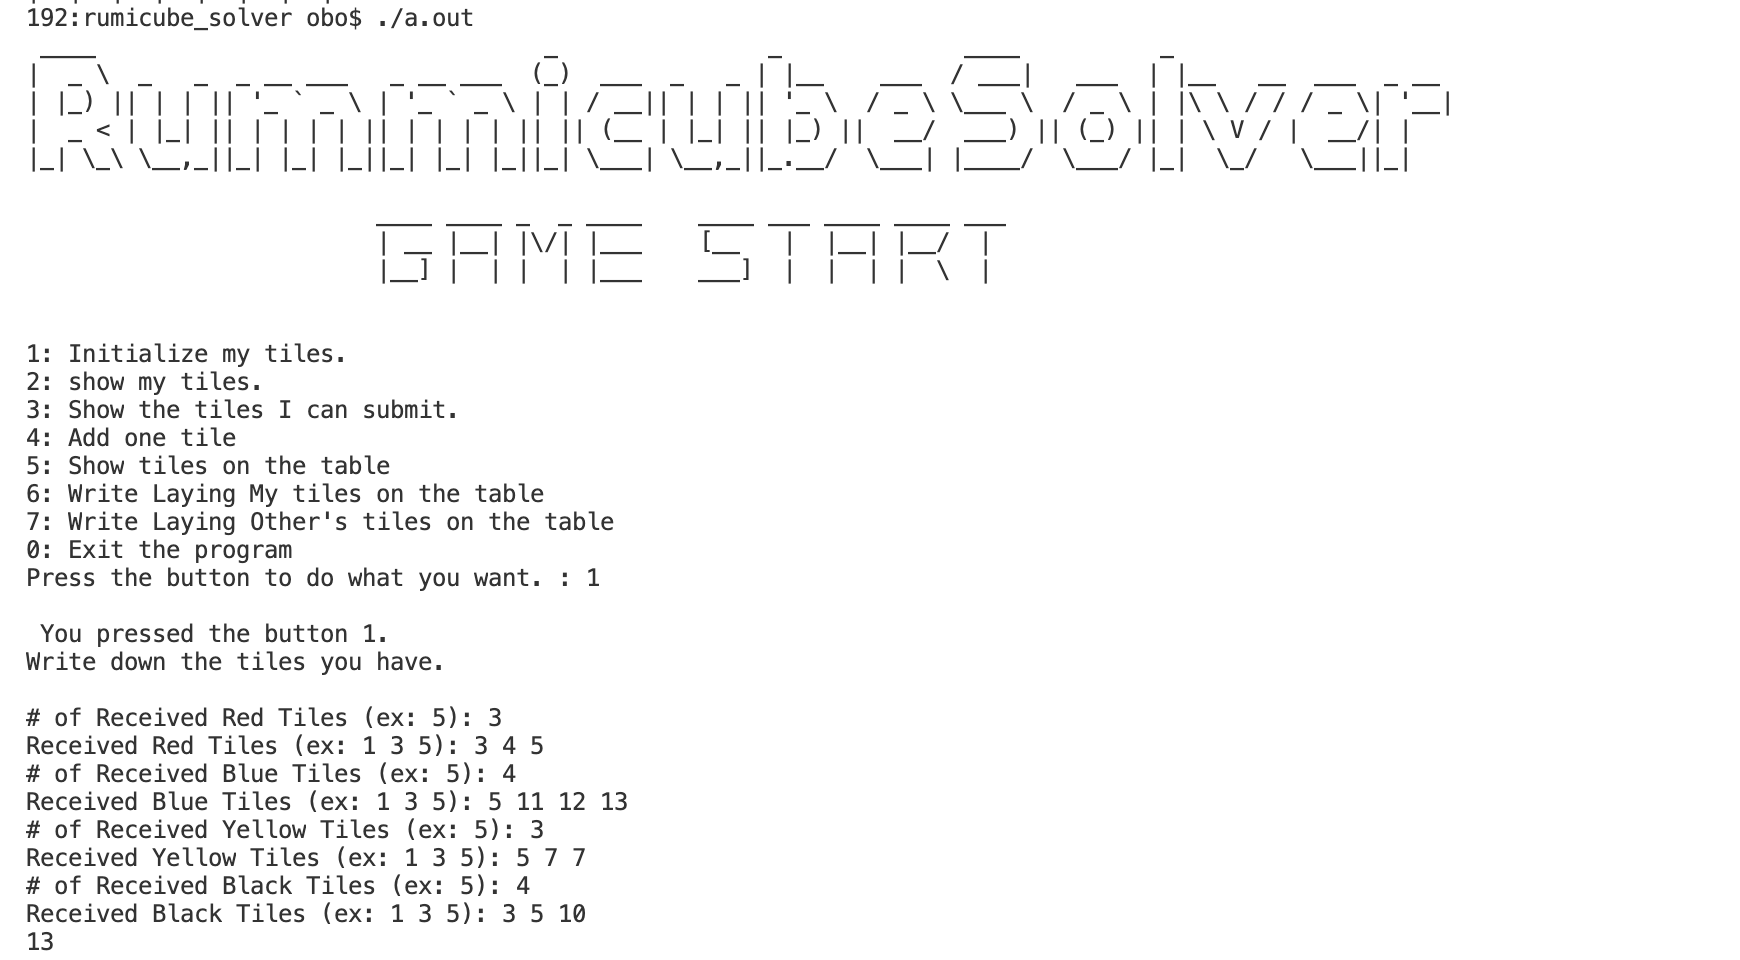
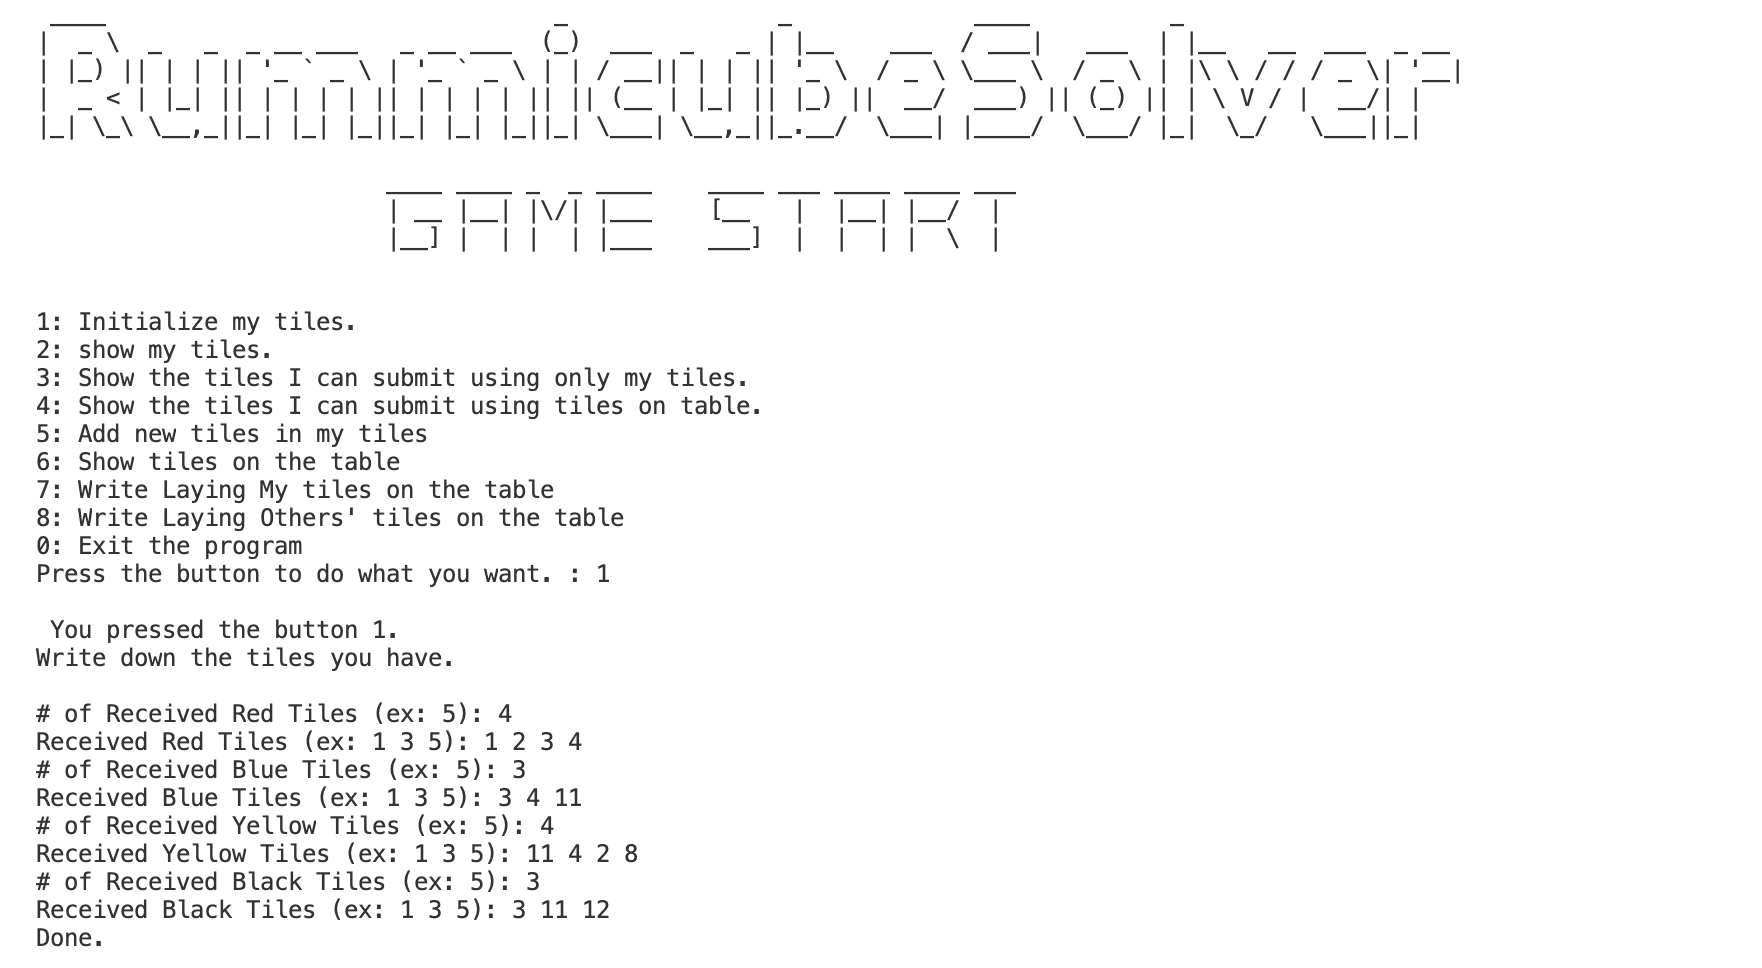
update readme.md

Changed region(s): [[0.0, 0.3125, 0.4345, 1.0], [0.0, 0.0, 0.8379, 0.2812]]

diff --git a/main.cpp b/main.cpp
@@ -33,13 +33,14 @@ map<int,int> table_black_tiles;
 void show_ascii_art(void)
 {
     cout<<
-    " ____                                _               _             ____          _                    \n"<<
-    "|  _ \\  _   _  _ __ ___   _ __ ___  (_)  ___  _   _ | |__    ___  / ___|   ___  | |__   __  ___  _ __ \n"<<
-    "| |_) || | | || '_ ` _ \\ | '_ ` _ \\ | | / __|| | | || '_ \\  / _ \\ \\___ \\  / _ \\ | |\\ \\ / / / _ \\| '__|\n"<<
-    "|  _ < | |_| || | | | | || | | | | || || (__ | |_| || |_) ||  __/  ___) || (_) || | \\ V / |  __/| |   \n"<<
-    "|_| \\_\\ \\__,_||_| |_| |_||_| |_| |_||_| \\___| \\__,_||_.__/  \\___| |____/  \\___/ |_|  \\_/   \\___||_|   "<<endl;
+    "\n ____                                _  _            _       ____          _                    \n"<<
+    "|  _ \\  _   _  _ __ ___   _ __ ___  (_)| | __ _   _ | |__   / ___|   ___  | |__   __  ___  _ __ \n"<<
+    "| |_) || | | || '_ ` _ \\ | '_ ` _ \\ | || |/ /| | | || '_ \\  \\___ \\  / _ \\ | |\\ \\ / / / _ \\| '__|\n"<<
+    "|  _ < | |_| || | | | | || | | | | || ||   < | |_| || |_) |  ___) || (_) || | \\ V / |  __/| |   \n"<<
+    "|_| \\_\\ \\__,_||_| |_| |_||_| |_| |_||_||_|\\_\\ \\__,_||_.__/  |____/  \\___/ |_|  \\_/   \\___||_|   \n"<<
+    "                                                                                                \n"<<endl;
     cout<<
-    "\n                         ____ ____ _  _ ____    ____ ___ ____ ____ ___ \n"<<
+    "                         ____ ____ _  _ ____    ____ ___ ____ ____ ___ \n"<<
     "                         | __ |__| |\\/| |___    [__   |  |__| |__/  |  \n"<<
     "                         |__] |  | |  | |___    ___]  |  |  | |  \\  | \n"<<endl;
 }

diff --git a/make_ascii_art.py b/make_ascii_art.py
@@ -3,5 +3,5 @@ from art import *
 for i in range(1,14):
     tprint(str(i))
 
-tprint("test",font="cybermedum")
+tprint("Rummikub Solver")
 tprint("Game over",font="cybermedum")

diff --git a/README.md b/README.md
@@ -1,10 +1,9 @@
 ```
- ____                                _               _             ____          _                    
-|  _ \  _   _  _ __ ___   _ __ ___  (_)  ___  _   _ | |__    ___  / ___|   ___  | |__   __  ___  _ __ 
-| |_) || | | || '_ ` _ \ | '_ ` _ \ | | / __|| | | || '_ \  / _ \ \___ \  / _ \ | |\ \ / / / _ \| '__|
-|  _ < | |_| || | | | | || | | | | || || (__ | |_| || |_) ||  __/  ___) || (_) || | \ V / |  __/| |   
-|_| \_\ \__,_||_| |_| |_||_| |_| |_||_| \___| \__,_||_.__/  \___| |____/  \___/ |_|  \_/   \___||_|   
-                                                                                                      
+ ____                                _  _            _       ____          _                    
+|  _ \  _   _  _ __ ___   _ __ ___  (_)| | __ _   _ | |__   / ___|   ___  | |__   __  ___  _ __ 
+| |_) || | | || '_ ` _ \ | '_ ` _ \ | || |/ /| | | || '_ \  \___ \  / _ \ | |\ \ / / / _ \| '__|
+|  _ < | |_| || | | | | || | | | | || ||   < | |_| || |_) |  ___) || (_) || | \ V / |  __/| |   
+|_| \_\ \__,_||_| |_| |_||_| |_| |_||_||_|\_\ \__,_||_.__/  |____/  \___/ |_|  \_/   \___||_|   
 ```
 ***You can see README in **[KOR](https://github.com/happyOBO/rummicube_solver/blob/master/README_kor.md)*****
 ## Rummicube Solver
@@ -53,6 +52,26 @@ Laying tiles on the table shall be arranged according to the following condition
 ### Show the tiles I can submit. (press ``button 3``)
 ***
 ![Submit Possible](./images/show_can_submit_tiles.png)
+
+### Show the tiles I can submit. (press ``button 3``)
+***
+![Submit Possible](./images/show_can_submit_tiles.png)
+### add new tiles and Show the tiles I can submit. (press ``button 5`` and ``button 6``)
+***
+![Submit Possible](./images/add_tiles.png)
+![Submit Possible](./images/show_add_tiles.png)
+
+### Write Laying My tiles on the table and Show the tiles on table. (press ``button 7`` and ``button 6``)
+***
+![Submit Possible](./images/submit_my_tiles.png)
+![Submit Possible](./images/show_submit.png)
+
+### Write Laying My tiles on the table and Show the tiles on table.(press ``button 8`` and ``button 6``)
+***
+![Submit Possible](./images/submit_other_tiles.png)
+![Submit Possible](./images/show_other_submit.png)
+
+
 ### Exit the program (press ``button 0``)
 ***
 ![Game Over](./images/game_end.png)
